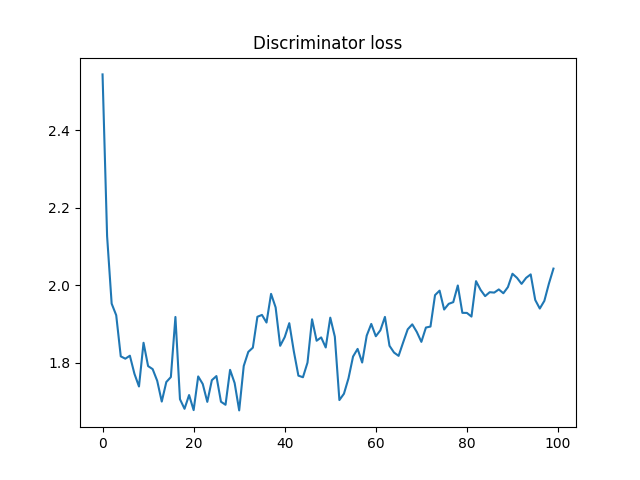
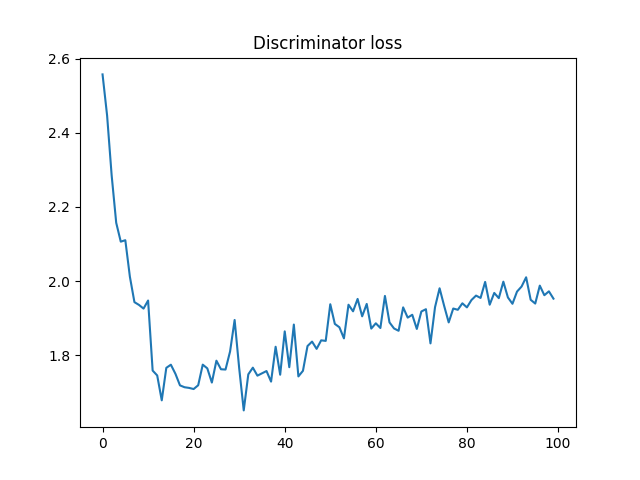
Added parameter for img_shape to look at gans with various img shape

diff --git a/shared-library/src/optimization_playground_shared/models/BasicConvModel.py b/shared-library/src/optimization_playground_shared/models/BasicConvModel.py
@@ -5,19 +5,59 @@ import torch.nn.functional as F
 import torch
 import torch.nn.functional as F
 import torch.nn as nn
+import math
+
+def max_pool_output(shape_in, pool: nn.MaxPool2d):
+    resolve_arr_or_int = lambda x, i: x if type(x) == int  else x[i]
+
+    h_out = math.floor((shape_in[-2] +  2 * resolve_arr_or_int(pool.padding, 0) - resolve_arr_or_int(pool.dilation, 0) * (resolve_arr_or_int(pool.kernel_size, 0) - 1) -1)/(
+        resolve_arr_or_int(pool.stride, 0)
+    ) + 1)
+    w_out = math.floor((shape_in[-1] + 2 * resolve_arr_or_int(pool.padding, 0) - resolve_arr_or_int(pool.dilation, 0) * (resolve_arr_or_int(pool.kernel_size, 1) - 1) -1)/(
+        resolve_arr_or_int(pool.stride, 1)
+    ) + 1)
+
+    return (
+        h_out,
+        w_out
+    )
+
+def conv_output_shape(shape_in, conv: nn.Conv2d):
+    resolve_arr_or_int = lambda x, i: x if type(x) == int  else x[i]
+    h_out = math.floor(((shape_in[-2] + 2 * resolve_arr_or_int(conv.padding, 0) - resolve_arr_or_int(conv.dilation, 0) * (resolve_arr_or_int(conv.kernel_size, 0) - 1) -1)/(
+        resolve_arr_or_int(conv.stride, 0)
+    )) + 1)
+    w_out = math.floor(((shape_in[-1] + 2 * resolve_arr_or_int(conv.padding, 0) - resolve_arr_or_int(conv.dilation, 0) * (resolve_arr_or_int(conv.kernel_size, 1) - 1) -1)/(
+        resolve_arr_or_int(conv.stride, 1)
+    )) + 1)
+    return (
+        h_out,
+        w_out
+    )
+
+def get_output_shape(shape_in, layers):
+    shape = shape_in
+    for i in layers:
+        print(shape)
+        if isinstance(i, nn.Conv2d):
+            shape = conv_output_shape(shape, i)
+        elif isinstance(i, nn.MaxPool2d):
+            shape = conv_output_shape(shape, i)
+        else:
+            raise Exception("Hm, unknown layer")
+    return shape
 
 class BasicConvModel(nn.Module):
-    def __init__(self, n_channels=1):
+    def __init__(self, input_shape=(1, 28, 28)):
         super().__init__()
-        self.conv1 = nn.Conv2d(n_channels, 12, 5)
+        self.conv1 = nn.Conv2d(input_shape[0], 12, 5)
         self.pool = nn.MaxPool2d(2, 2)
         self.conv2 = nn.Conv2d(12, 16, 5)
-        if n_channels == 1:
-            self.fc1 = nn.Linear(16 * 4 * 4, 256)
-        elif n_channels == 3:
-            self.fc1 = nn.Linear(16 * 5 * 5, 256)
-        else:
-            raise Exception(f"Unknown output for n_channels={n_channels}")
+        self.output_shape = ((
+            get_output_shape(input_shape,
+            [self.conv1, self.pool, self.conv2, self.pool])
+        ))
+        self.fc1 = nn.Linear(16 * self.output_shape[0] * self.output_shape[1], 256)
         self.out = nn.Sequential(
             self.fc1,
             nn.ReLU(),

diff --git a/gan/gan-hacks/train.py b/gan/gan-hacks/train.py
@@ -22,6 +22,7 @@ discriminator_real = []
 discriminator_fake = []
 
 def forward(gan: GanModel, train_loader):
+    index_batches = 0
     batches = 0
     sum_g_loss = 0
     sum_d_loss = 0
@@ -35,6 +36,7 @@ def forward(gan: GanModel, train_loader):
     for index, (X, y) in enumerate(train_loader):
         batch_size = X.shape[0]
         X = X.to('cuda')
+        X = torchvision.transforms.Resize(size=((parameters.IMG_SHAPE_X, parameters.IMG_SHAPE_Y)))(X)
         y = y.to('cuda').float()
         if parameters.APPLY_AUGMENTATIONS:
             transforms = torch.nn.Sequential(
@@ -72,6 +74,7 @@ def forward(gan: GanModel, train_loader):
             with torch.no_grad():
                 avg_discriminator_fake += gan.discriminator(gan.generator(noise, y).detach())[0].mean().item()
                 avg_discriminator_real += gan.discriminator(X)[0].mean().item()
+                batches += 1
 #                avg_discriminator_fake += gan.discriminator(gan.generator(noise).detach()).mean().item()
 #                avg_discriminator_real += gan.discriminator(X).mean().item()
 
@@ -111,11 +114,11 @@ def forward(gan: GanModel, train_loader):
             print("")
             sum_g_loss += g_loss.item()
             sum_d_loss += batch_sum_d_loss
-            batches += 1
+            index_batches += 1
     discriminator_real.append(avg_discriminator_real / batches)
     discriminator_fake.append(avg_discriminator_fake / batches)
-    generator_loss.append(sum_g_loss / batches)
-    discriminator_loss.append(sum_d_loss / batches)
+    generator_loss.append(sum_g_loss / index_batches)
+    discriminator_loss.append(sum_d_loss / index_batches)
 
 if __name__ == '__main__':
     (train_loader, _) = get_dataloader(
@@ -123,8 +126,8 @@ if __name__ == '__main__':
         overfit=False
     )
     gan = GanModel(
-        discriminator=SimpleLabelDiscriminator(),
-        generator=SimpleLabelGenerator(z=parameters.Z_SHAPE)
+        discriminator=SimpleLabelDiscriminator(input_shape=((1, parameters.IMG_SHAPE_X, parameters.IMG_SHAPE_Y))),
+        generator=SimpleLabelGenerator(z=parameters.Z_SHAPE, input_shape=((1, parameters.IMG_SHAPE_X, parameters.IMG_SHAPE_Y)))
     )
     for epoch in range(1_00):
         gan.current_epoch = epoch

diff --git a/shared-library/src/optimization_playground_shared/models/SimpleGenerator.py b/shared-library/src/optimization_playground_shared/models/SimpleGenerator.py
@@ -2,10 +2,13 @@ from torch import nn
 import torch
 import torch.nn as nn
 import torch.nn.functional as F
+import itertools
+import math
 
 class SimpleGenerator(nn.Module):
-    def __init__(self, z):
+    def __init__(self, z, input_shape=(1, 28, 28)):
         super().__init__()
+        self.input_shape = input_shape
         self.out = nn.Sequential(
           nn.Linear(z, 128),
           nn.LeakyReLU(),
@@ -14,11 +17,11 @@ class SimpleGenerator(nn.Module):
           nn.Dropout(p=0.01),
           nn.Linear(256, 512),
           nn.LeakyReLU(),
-          nn.Linear(512, 28 * 28),
+          nn.Linear(512, math.prod(input_shape)),
           nn.Tanh(),
         )
 
     def forward(self, x):
         x = self.out(x) 
-        x = x.reshape((x.shape[0], 1, 28, 28))
+        x = x.reshape((x.shape[0], ) + self.input_shape)
         return x

diff --git a/shared-library/src/optimization_playground_shared/models/SimpleLabelDiscriminator.py b/shared-library/src/optimization_playground_shared/models/SimpleLabelDiscriminator.py
@@ -2,9 +2,10 @@ import torch.nn as nn
 from .BasicConvModel import BasicConvModel
 
 class SimpleLabelDiscriminator(BasicConvModel):
-    def __init__(self, n_channels=1):
-        super().__init__(n_channels)
+    def __init__(self, input_shape=(1, 28, 28)):
+        super().__init__(input_shape)
         self.out = nn.Sequential(
+          self.fc1,
           nn.Linear(256, 128),
           nn.LeakyReLU(),
           nn.Linear(128, 64),

diff --git a/shared-library/src/optimization_playground_shared/models/SimpleLabelGenerator.py b/shared-library/src/optimization_playground_shared/models/SimpleLabelGenerator.py
@@ -5,8 +5,8 @@ import torch.nn.functional as F
 from .SimpleGenerator import SimpleGenerator
 
 class SimpleLabelGenerator(SimpleGenerator):
-    def __init__(self, z):
-        super().__init__(z)
+    def __init__(self, z, input_shape=(1, 28, 28)):
+        super().__init__(z, input_shape)
         self.labels = nn.Sequential(
             nn.Linear(1, z),
             nn.LeakyReLU()

diff --git a/shared-library/src/optimization_playground_shared/models/SimpleDiscriminator.py b/shared-library/src/optimization_playground_shared/models/SimpleDiscriminator.py
@@ -2,8 +2,8 @@ import torch.nn as nn
 from .BasicConvModel import BasicConvModel
 
 class SimpleDiscriminator(BasicConvModel):
-    def __init__(self, n_channels=1):
-        super().__init__(n_channels)
+    def __init__(self, image_shape=(1, 28, 28)):
+        super().__init__(image_shape)
         self.out = nn.Sequential(
           nn.Linear(256, 128),
           nn.LeakyReLU(),

diff --git a/gan/gan-hacks/parameters.py b/gan/gan-hacks/parameters.py
@@ -3,6 +3,9 @@ import torch
 LEARNING_RATE = 0.0002
 BATCH_SIZE = 32
 Z_SHAPE = 100
+# Trying to scale up MNIST data, and see what happens
+SCALE = 2
+IMG_SHAPE_X, IMG_SHAPE_Y = 28 * SCALE, 28 * SCALE
 
 NORMALIZE_INPUTS_WITH_TANH = True
 APPLY_AUGMENTATIONS = False
